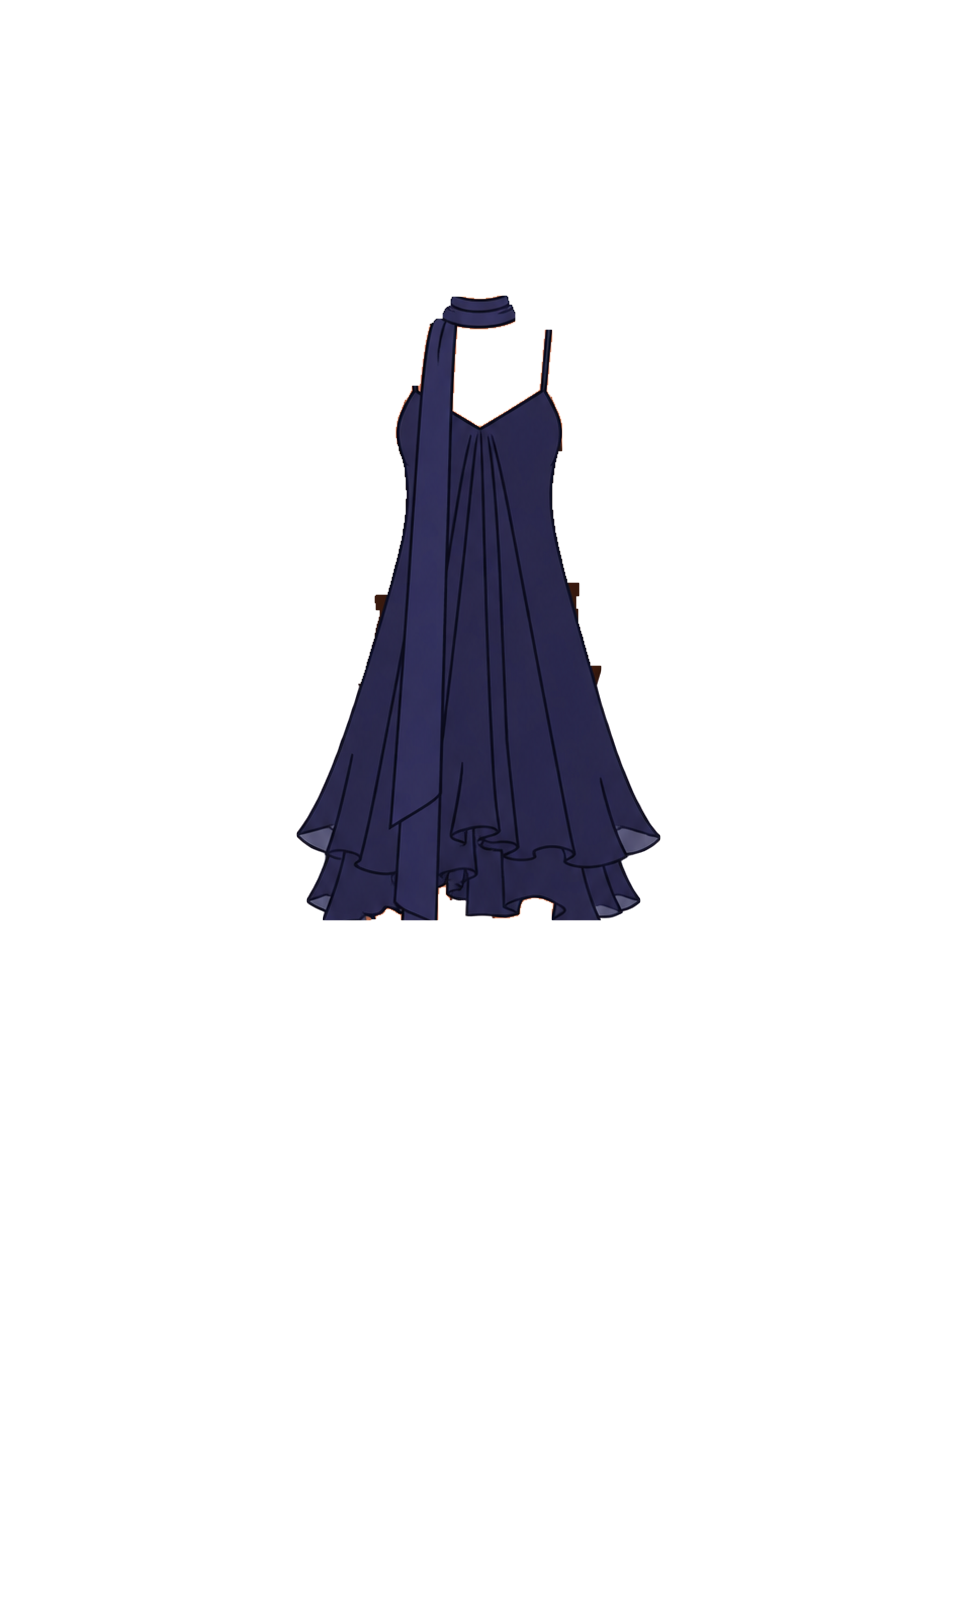
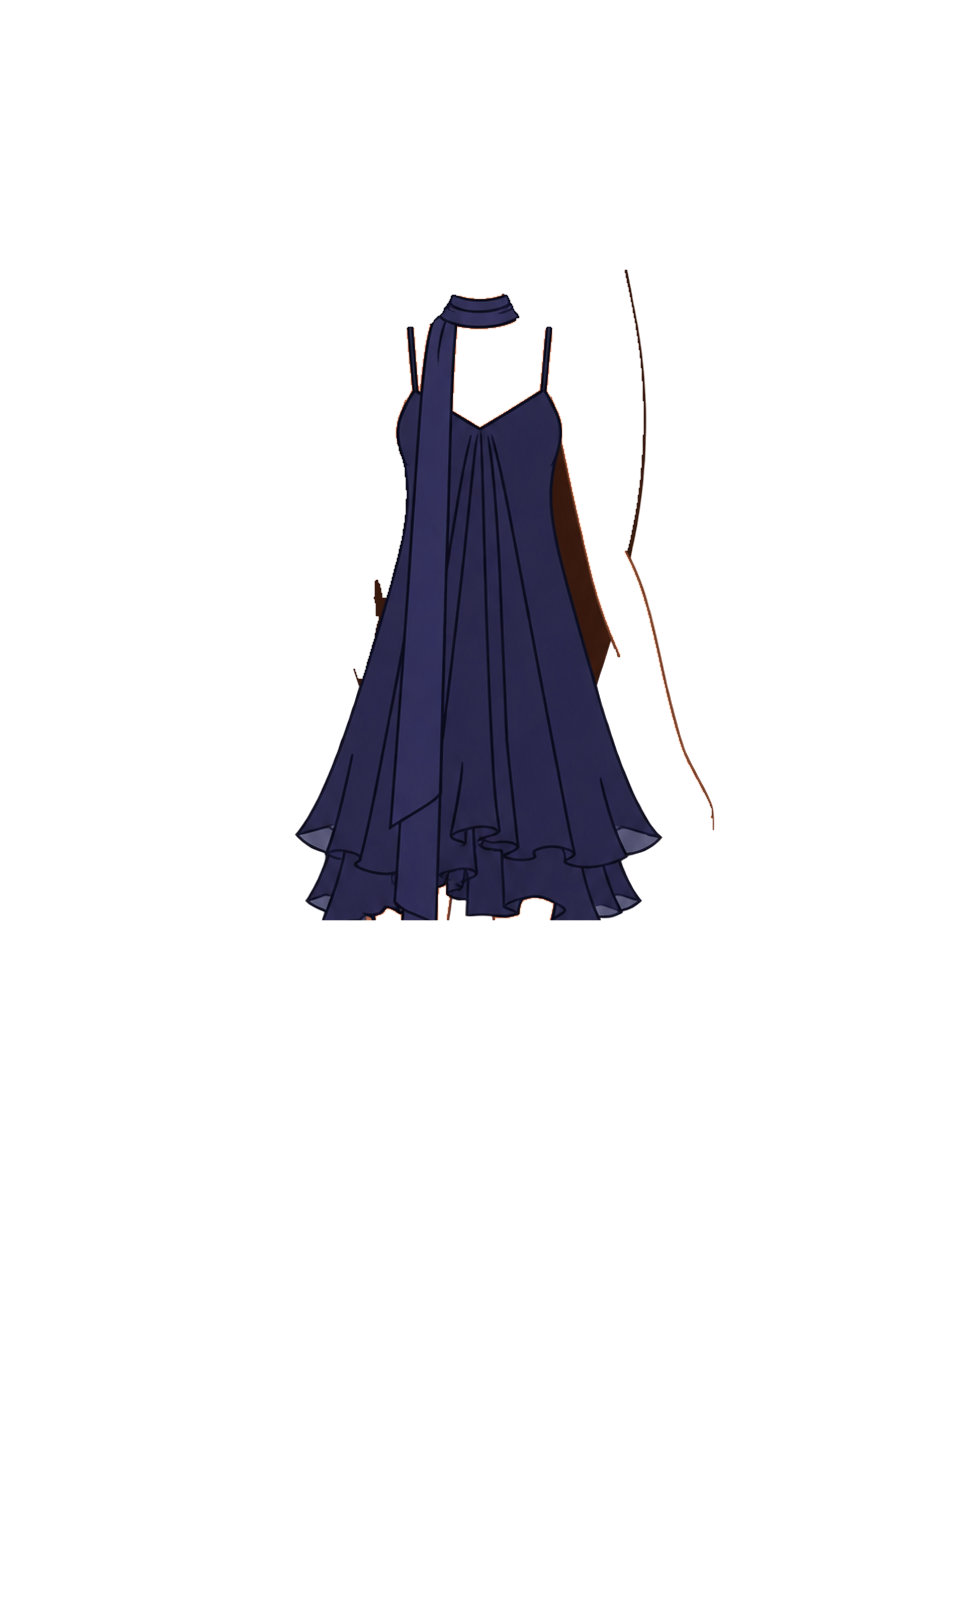
Fix dress strap, sleeve gaps, skirt waistband and tights under shoes; remove hoop earrings

diff --git a/index.html b/index.html
@@ -217,6 +217,8 @@ const CATEGORIES = {
      hide: [x0, y0, x1, y1]  erases that part of the doll while the item is on
                              (e.g. her bare feet inside boots, legs inside jeans)
      back: true              the item also has an "<id>-back.png" drawn BEHIND the doll
+     hideMask: "file"        like hide, but erases the doll wherever that picture is solid
+                             (toes that would poke out beside a shoe)
      hideTank: true          paints skin over her pink tank (for tops that don't cover it)
      thumb: "file"           a different picture for the closet thumbnail
      clip: "file"            a silhouette; tops, dresses and bottoms are tucked inside it
@@ -253,7 +255,7 @@ const ITEMS = [
   { id: "shoes-western-boots", slot: "shoes",  name: "Suede Boots",    box: [319, 1338, 295, 266], hide: [0, 1362, 971, 1620] },
   { id: "shoes-sandals",       slot: "shoes",  name: "Strappy Sandals", box: [337, 1489, 257, 117] },
   { id: "shoes-slides",        slot: "shoes",  name: "Buckle Slides",  box: [333, 1530, 265, 77] },
-  { id: "shoes-ballet-flats", slot: "shoes", name: "Ballet Flats", box: [190, 704, 591, 212], hide: [0, 1482, 971, 1620], thumb: "assets/thumbs/shoes-ballet-flats.png" },
+  { id: "shoes-ballet-flats", slot: "shoes", name: "Ballet Flats", box: [190, 704, 591, 212], hideMask: "assets/shoes-ballet-flats-hide.png", thumb: "assets/thumbs/shoes-ballet-flats.png" },
   { id: "bag-piano",           slot: "bag",    name: "Piano Purse",    box: [411, 323, 250, 491] },
   { id: "bag-floral",          slot: "bag",    name: "Flower Hobo",    box: [537, 314, 196, 453] },
   { id: "bag-saddle",          slot: "bag",    name: "Saddle Bag",     box: [531, 317, 171, 465] },
@@ -265,7 +267,6 @@ const ITEMS = [
   { id: "necklace-deer-pendant", slot: "necklace", name: "Deer Pendant", box: [223, 553, 525, 514], thumb: "assets/thumbs/necklace-deer-pendant.png" },
   { id: "necklace-orb-charm", slot: "necklace", name: "Orb Charm", box: [343, 700, 284, 220], thumb: "assets/thumbs/necklace-orb-charm.png" },
   { id: "necklace-orb-pendant", slot: "necklace", name: "Orb Pendant", box: [282, 666, 406, 287], thumb: "assets/thumbs/necklace-orb-pendant.png" },
-  { id: "earrings-crystal-hoops", slot: "earrings", name: "Crystal Hoops", box: [153, 665, 664, 289], thumb: "assets/thumbs/earrings-crystal-hoops.png" },
   { id: "earrings-silver-drops", slot: "earrings", name: "Silver Drops", box: [107, 706, 756, 208], thumb: "assets/thumbs/earrings-silver-drops.png" },
 ].map(it => ({ ...it, src: `assets/${it.id}.png`, backSrc: it.back ? `assets/${it.id}-back.png` : null }));
 const itemById = id => ITEMS.find(i => i.id === id);
@@ -338,6 +339,7 @@ const dollImg = new Image(), patchImg = new Image(), tankPatchImg = new Image();
 dollImg.onload = patchImg.onload = tankPatchImg.onload = () => drawBase();
 dollImg.src = "assets/doll.png"; patchImg.src = "assets/body-noshorts.png"; tankPatchImg.src = "assets/body-notank.png";
 
+const maskImgs = {};
 function drawBase() {
   bctx.clearRect(0, 0, CANVAS_W, CANVAS_H);
   if (!dollImg.naturalWidth) return;
@@ -352,6 +354,12 @@ function drawBase() {
   for (const id of on) {
     const h = itemById(id).hide;
     if (h) bctx.clearRect(h[0], h[1], h[2] - h[0], h[3] - h[1]);
+  }
+  for (const id of on) {                       // hideMask: erase the doll wherever that picture is solid
+    const src = itemById(id).hideMask; if (!src) continue;
+    const im = maskImgs[src] || (maskImgs[src] = Object.assign(new Image(), { onload: drawBase, src }));
+    if (!im.complete || !im.naturalWidth) continue;
+    bctx.globalCompositeOperation = "destination-out"; bctx.drawImage(im, 0, 0, CANVAS_W, CANVAS_H); bctx.globalCompositeOperation = "source-over";
   }
 }
 
@@ -573,7 +581,7 @@ addEventListener("resize", fit); fit();
 /* ===================== PRELOADER ===================== */
 (function preload() {
   const srcs = [FRAME.src, "assets/doll.png", "assets/body-noshorts.png", "assets/body-notank.png",
-    ...ITEMS.flatMap(i => [i.src, i.backSrc, i.clip, i.thumb].filter(Boolean)), ...BACKGROUNDS.filter(b => b.src).map(b => b.src)];
+    ...ITEMS.flatMap(i => [i.src, i.backSrc, i.clip, i.thumb, i.hideMask].filter(Boolean)), ...BACKGROUNDS.filter(b => b.src).map(b => b.src)];
   let done = 0;
   srcs.forEach(src => {
     const i = new Image();
